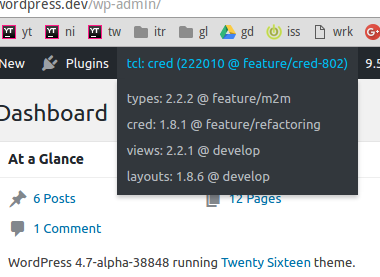
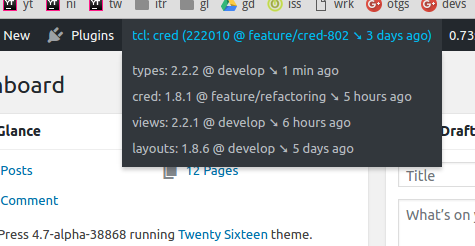
Readme and screenshot update.

diff --git a/README.md b/README.md
@@ -1,7 +1,8 @@
 # tcl-status
-WordPress plugins that shows information about Toolset plugin versions, branch names
-(if the plugins are in a git repository ) and the loaded Toolset Common Library 
+WordPress plugins that shows information about Toolset plugin versions, branch names and the loaded Toolset Common Library 
 instance in the admin bar.
+
+Additionally, if the plugins are in a git repository, the plugin will show how long ago the branch was pulled from the origin.
 
 ![screenshot](./screenshot.png)
 
